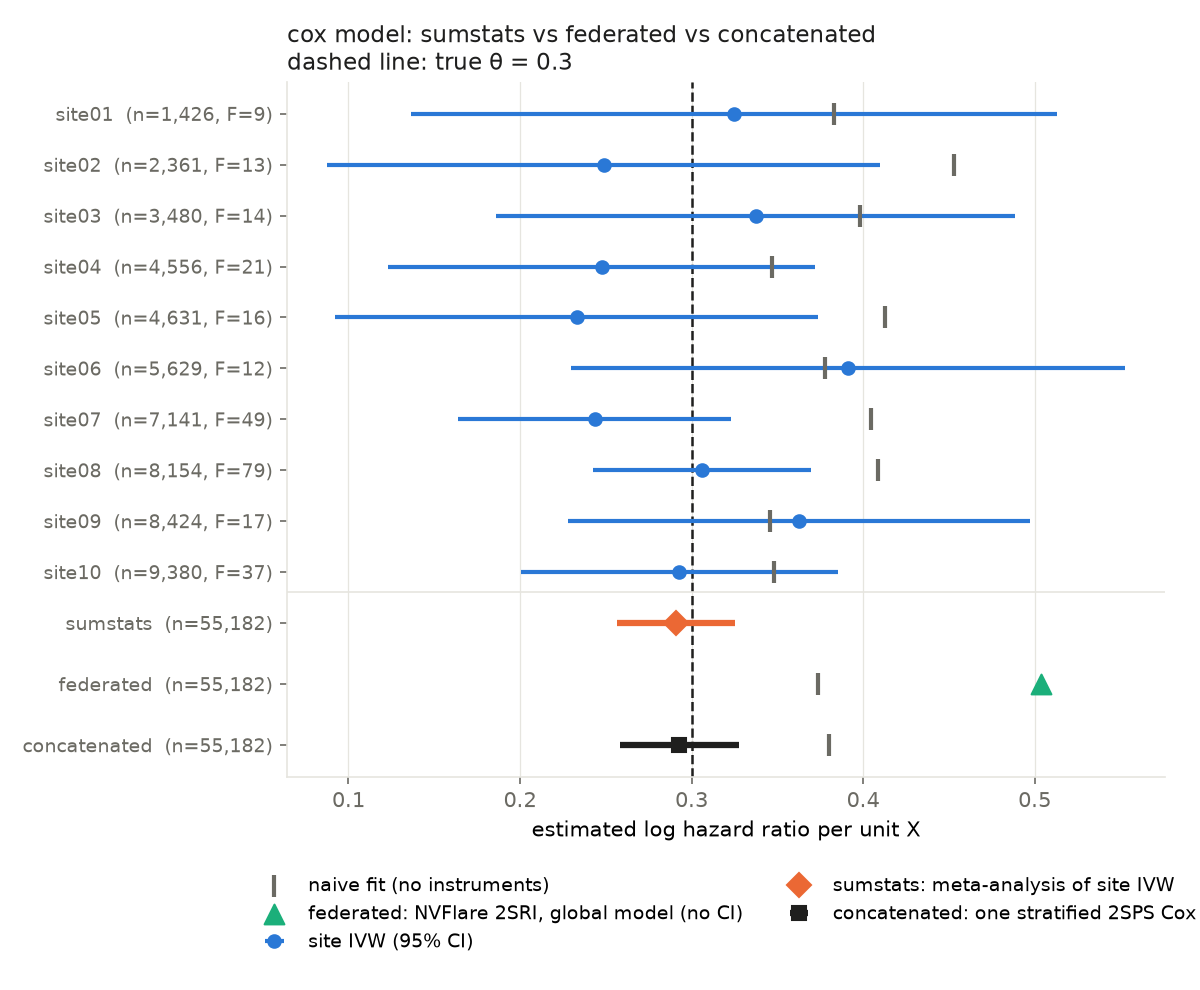
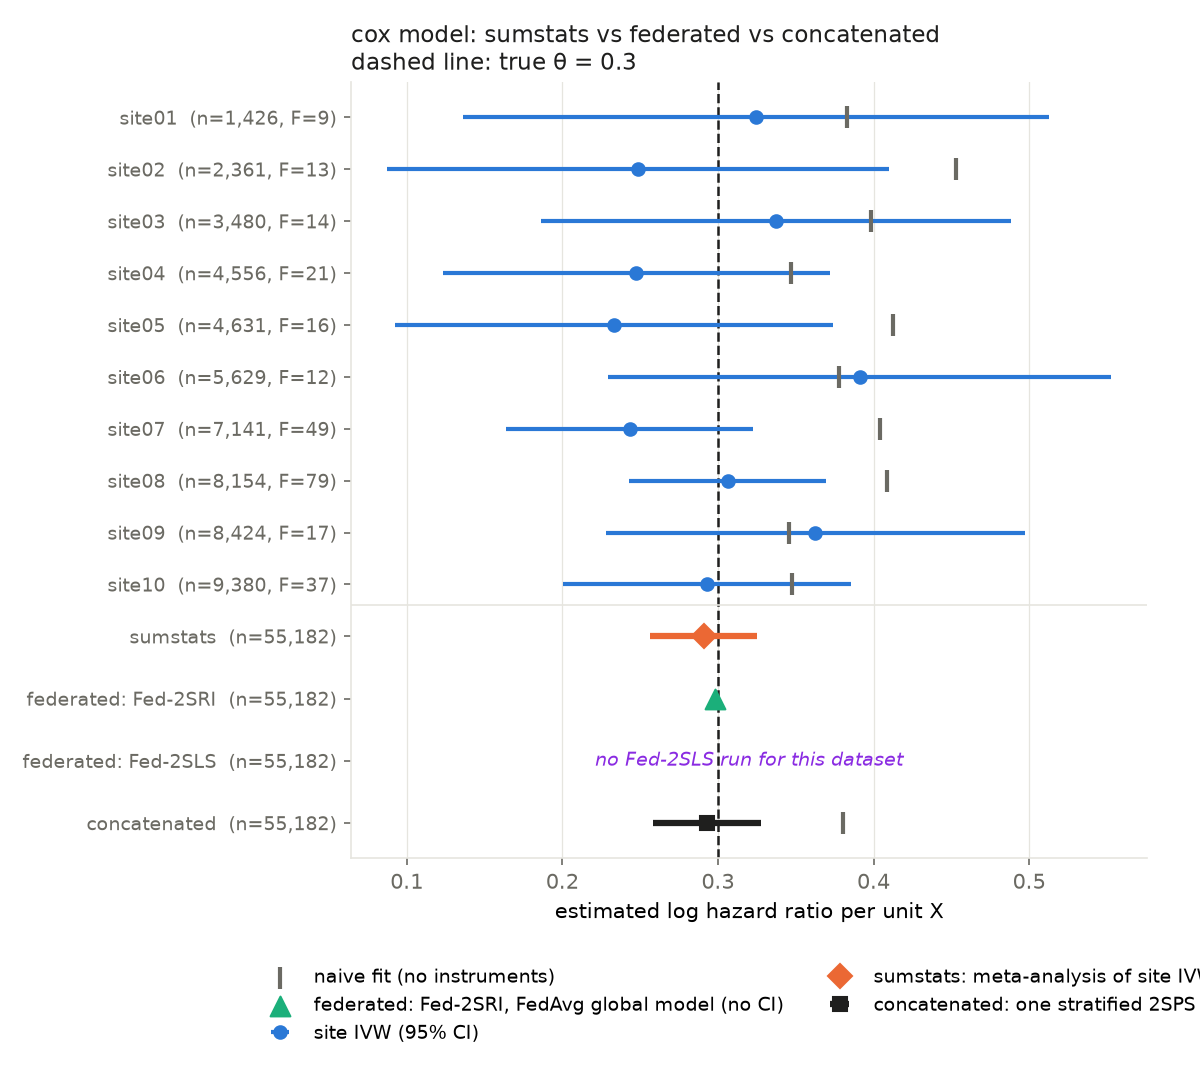
Rename the FedAvg 2SRI model to Fed-2SRI; dashboard runs Fed-2SRI and Fed-2SLS only
The FedAvg-trained federated 2SRI network is labelled Fed-2SRI on the
forest, dose-response and fitted-curve plots, in the dashboard and in the
docs; the 2SPS sibling becomes Fed-2SPS on the job.py plots. The dashboard
drops federated naive and Fed-2SPS: its federated step offers and runs
2sri and fed2sls, and the forest no longer draws the federated naive tick.
The curved forest tolerates a linear-basis Fed-2SLS run (it reports theta1
alone and prefers the checked-in quadratic analysis when there is one)
instead of crashing on a missing theta2. Plots regenerated.

Claude-Session: https://claude.ai/code/session_015NyuikE1DxS4koegP9jiqJ

diff --git a/data/scripts/federated_summary_mr.py b/data/scripts/federated_summary_mr.py
@@ -190,9 +190,7 @@ def forest(res, meta, meta_se, pooled, pooled_se, pooled_naive, fl, target, targ
                 ecolor=SUMSTATS_COLOR, elinewidth=3, label="sumstats: meta-analysis of site IVW")
     if "2sri" in fl:
         ax.scatter([fl["2sri"][0]], [rows_y["federated"]], marker="^", s=90, color=FED_COLOR, zorder=4,
-                   label="federated: NVFlare 2SRI, global model (no CI)")
-    if "naive" in fl:
-        ax.scatter([fl["naive"][0]], [rows_y["federated"]], marker="|", s=120, color=MUTED, linewidths=2, zorder=3)
+                   label="federated: Fed-2SRI, FedAvg global model (no CI)")
     if fed2sls is not None:
         ax.errorbar([fed2sls[0]], [rows_y["fed2sls"]], xerr=[1.96 * fed2sls[1]], fmt="v", color=FED2SLS_COLOR, ms=8,
                     ecolor=FED2SLS_COLOR, elinewidth=3, label="federated: Fed-2SLS, exact pooled 2SLS (95% CI)")
@@ -205,10 +203,10 @@ def forest(res, meta, meta_se, pooled, pooled_se, pooled_naive, fl, target, targ
     ax.scatter([pooled_naive], [rows_y["pooled"]], marker="|", s=120, color=MUTED, linewidths=2, zorder=3)
     ax.axhline(-0.4, color=GRID, linewidth=0.8)
     if "2sri" not in fl:
-        ax.text(0.5, rows_y["federated"], "no NVFlare 2SRI run for this dataset", transform=ax.get_yaxis_transform(),
+        ax.text(0.5, rows_y["federated"], "no Fed-2SRI run for this dataset", transform=ax.get_yaxis_transform(),
                 ha="center", va="center", fontsize=9, color=FED_COLOR, style="italic")
     _family_rows(ax, y, rows_y, res, res["n"].sum(),
-                 {"sumstats": "sumstats", "federated": "federated: FedAvg", "fed2sls": "federated: Fed-2SLS",
+                 {"sumstats": "sumstats", "federated": "federated: Fed-2SRI", "fed2sls": "federated: Fed-2SLS",
                   "pooled": "concatenated"})
     ax.set_xlabel("estimated log hazard ratio per unit X" if shape == "cox" else "estimated causal effect of X on Y")
     ax.set_title(f"{shape} model: sumstats vs federated vs concatenated\ndashed line: {target_label}",
@@ -230,18 +228,23 @@ def fed2sls_row(dataset: str, curved: bool,
     results/fed2sls.<dataset>.csv (scripts/federated_exact_mr.py) is the fallback; any other
     root belongs to a different dataset, so that file is not consulted."""
     run = root / "fed2sls" / dataset / "metrics.csv"
+    from_run = None
     if run.exists():
         r = pl.read_csv(run).row(-1, named=True)
-        return (r["theta_X"], r["se_X"], r.get("theta_X2"), r.get("se_X2"))
+        from_run = (r["theta_X"], r["se_X"], r.get("theta_X2"), r.get("se_X2"))
+        if not curved or from_run[2] is not None:
+            return from_run
+        # a linear-basis run on a curved shape: prefer the checked-in quadratic analysis below,
+        # otherwise report theta1 alone
     if root != FL_RESULTS:
-        return None
+        return from_run
     path = Path("results") / f"fed2sls.{dataset}.csv"
     if not path.exists():
         return None
     df = pl.read_csv(path)
     r = df.filter(pl.col("estimator") == "Fed-2SLS quadratic" if curved else pl.col("estimator").str.starts_with("Fed-2SLS ("))
     if r.height == 0:
-        return None
+        return from_run
     r = r.row(0, named=True)
     return r["theta1"], r["se1"], r["theta2"], r["se2"]
 
@@ -259,9 +262,9 @@ def fl_curve(method: str, dataset: str, root: Path = FL_RESULTS) -> tuple[np.nda
 
 def fl_params(dataset: str, curved: bool, x_max: float = 2.0, root: Path = FL_RESULTS) -> dict[str, tuple[float, ...]]:
     """Summarise the federated curves into the forest's parameters by least squares on |x| <= x_max.
-    Returns {"2sri": (theta1, theta2) or (slope,), "naive": ...} for the runs that exist."""
+    Returns {"2sri": (theta1, theta2) or (slope,)} when that run exists."""
     out = {}
-    for method in ("2sri", "naive"):
+    for method in ("2sri",):
         c = fl_curve(method, dataset, root)
         if c is None:
             continue
@@ -310,19 +313,17 @@ def forest_curved(res, meta, meta_se, model_meta, model_cov, pooled_q, pooled_co
                  label="model sumstats: meta of site (θ1, θ2)")
     if "2sri" in fl:
         ax1.scatter([fl["2sri"][0]], [rows_y["federated"]], marker="^", s=90, color=FED_COLOR, zorder=4,
-                    label="federated: NVFlare 2SRI, global model (no CI)")
+                    label="federated: Fed-2SRI, FedAvg global model (no CI)")
         ax2.scatter([fl["2sri"][1]], [rows_y["federated"]], marker="^", s=90, color=FED_COLOR, zorder=4)
     else:
-        ax1.text(0.5, rows_y["federated"], "no NVFlare 2SRI run for this dataset", transform=ax1.get_yaxis_transform(),
+        ax1.text(0.5, rows_y["federated"], "no Fed-2SRI run for this dataset", transform=ax1.get_yaxis_transform(),
                  ha="center", va="center", fontsize=9, color=FED_COLOR, style="italic")
-    if "naive" in fl:
-        ax1.scatter([fl["naive"][0]], [rows_y["federated"]], marker="|", s=120, color=MUTED, linewidths=2, zorder=3)
-        ax2.scatter([fl["naive"][1]], [rows_y["federated"]], marker="|", s=120, color=MUTED, linewidths=2, zorder=3)
     if fed2sls is not None:
         ax1.errorbar([fed2sls[0]], [rows_y["fed2sls"]], xerr=[1.96 * fed2sls[1]], fmt="v", color=FED2SLS_COLOR, ms=8,
                      ecolor=FED2SLS_COLOR, elinewidth=3, label="federated: Fed-2SLS, exact pooled 2SLS (95% CI)")
-        ax2.errorbar([fed2sls[2]], [rows_y["fed2sls"]], xerr=[1.96 * fed2sls[3]], fmt="v", color=FED2SLS_COLOR, ms=8,
-                     ecolor=FED2SLS_COLOR, elinewidth=3)
+        if fed2sls[2] is not None:     # a linear-basis run has no theta2
+            ax2.errorbar([fed2sls[2]], [rows_y["fed2sls"]], xerr=[1.96 * fed2sls[3]], fmt="v", color=FED2SLS_COLOR,
+                         ms=8, ecolor=FED2SLS_COLOR, elinewidth=3)
     else:
         ax1.text(0.5, rows_y["fed2sls"], "no Fed-2SLS run for this dataset", transform=ax1.get_yaxis_transform(),
                  ha="center", va="center", fontsize=9, color=FED2SLS_COLOR, style="italic")
@@ -355,7 +356,7 @@ def forest_curved(res, meta, meta_se, model_meta, model_cov, pooled_q, pooled_co
         ax.axhline(-0.4, color=GRID, linewidth=0.8)
         _style(ax)
     _family_rows(ax1, y, rows_y, res, n_all, {"sumstats": "sumstats: per-SNP", "models": "sumstats: site models",
-                                              "federated": "federated: FedAvg", "fed2sls": "federated: Fed-2SLS",
+                                              "federated": "federated: Fed-2SRI", "fed2sls": "federated: Fed-2SLS",
                                               "pooled": "concatenated"})
     fig.suptitle(f"{shape} model: sumstats vs federated vs concatenated, two parameters of the causal curve",
                  x=0.01, ha="left", fontsize=11, color=INK)

diff --git a/dashboard/runner.py b/dashboard/runner.py
@@ -41,7 +41,7 @@ DATA_PYTHON = os.environ.get("FLAMINGO_DATA_PYTHON", sys.executable)
 # The repository is one environment, so every step runs in this interpreter.
 # Both overrides remain for pointing a step at a separate environment.
 FL_PYTHON = os.environ.get("FLAMINGO_FL_PYTHON", sys.executable)
-FL_METHODS = ("naive", "2sri", "2sps", "fed2sls")
+FL_METHODS = ("2sri", "fed2sls")
 
 SHAPES = ("linear", "quadratic", "threshold", "cox")
 CURVED_SHAPES = ("quadratic", "threshold")  # the shapes with a theta2 to recover
@@ -50,7 +50,7 @@ CURVED_SHAPES = ("quadratic", "threshold")  # the shapes with a theta2 to recove
 # so they deliberately stay out of the run id.
 EXPERIMENT_DEFAULTS: dict = {
     "run_federated": True,
-    "fl_methods": ["naive", "2sri", "fed2sls"],
+    "fl_methods": ["2sri", "fed2sls"],
     "fl_engine": "local",
     "fl_rounds": 5,
     "fl_epochs": 2,
@@ -203,9 +203,7 @@ def _federated_argv(p: dict, paths: RunPaths) -> list:
 # One name per federated method, used for the output headings and the estimator table.
 # Each says whether it is MR, which MR design, and how it is federated.
 METHOD_LABELS = {
-    "naive": "Federated naive · FedAvg, no instruments (not MR)",
-    "2sri": "Federated MR · 2SRI (control function), FedAvg",
-    "2sps": "Federated MR · 2SPS (predicted exposure), FedAvg",
+    "2sri": "Federated MR · Fed-2SRI (control function, FedAvg-trained)",
     "fed2sls": "Federated MR · Fed-2SLS (exact 2SLS from summed statistics)",
 }
 
@@ -249,7 +247,7 @@ PIPELINE: tuple[Step, ...] = (
     # estimator on the same forest and dose-response plots.
     Step(
         key="federated",
-        label="Federated learning (FedAvg: naive, MR 2SRI / 2SPS; Fed-2SLS exact 2SLS)",
+        label="Federated learning (Fed-2SRI via FedAvg; Fed-2SLS exact 2SLS)",
         script=FL_DIR / "job.py",
         python=FL_PYTHON,
         cwd=FL_DIR,
@@ -282,7 +280,6 @@ PIPELINE: tuple[Step, ...] = (
             "--sites", paths.sites_for(p["shape"]),
             "--out", _nonlinear_png(p, paths),
             "--federated", paths.fl,
-            # only the MR fit on the dose-response plot; the naive FedAvg curve stays in the table
             "--federated_methods", *NONLINEAR_FL_CURVES,
         ],
         outputs=lambda p, paths: {"Dose–response curve": _nonlinear_png(p, paths)},

diff --git a/federated_learning/src/plots.py b/federated_learning/src/plots.py
@@ -30,8 +30,8 @@ BLUE, ORANGE, GRAY, INK, MUTED, SURFACE, GRID = (
     "#256abf", "#eb6834", "#b8b8b5", "#1f1f1e", "#6b6b68", "#fcfcfb", "#e6e6e3")
 METHOD_STYLE = {                     # fixed colour per method, never cycled
     "naive": dict(color=BLUE, label="federated naive: f(X)"),
-    "2sri": dict(color="#4a3aa7", label="federated MR 2SRI: f(X) with control function"),
-    "2sps": dict(color="#1baf7a", label="federated MR 2SPS: f(X_hat)"),
+    "2sri": dict(color="#4a3aa7", label="federated Fed-2SRI: f(X) with control function"),
+    "2sps": dict(color="#1baf7a", label="federated Fed-2SPS: f(X_hat)"),
     "fed2sls": dict(color="#8a2be2", label="federated Fed-2SLS: exact pooled 2SLS, 95% band"),
 }
 METHODS = list(METHOD_STYLE)
@@ -238,7 +238,7 @@ def plot_overview(datasets, results_root, fed_dir, out):
             handles.setdefault(l.split(", round")[0].split(" (solid")[0], h)
     fig.legend(handles.values(), handles.keys(), frameon=False, fontsize=8, loc="upper right", ncol=2,
                bbox_to_anchor=(0.99, 0.99))
-    fig.suptitle("Federated X -> outcome curve: naive vs MR (FedAvg and Fed-2SLS)", x=0.01, ha="left",
+    fig.suptitle("Federated X -> outcome curve: naive vs MR (Fed-2SRI, Fed-2SPS, Fed-2SLS)", x=0.01, ha="left",
                  fontsize=12, color=INK, fontweight="bold")
     fig.text(0.01, 0.925, NOTE, fontsize=8, color=MUTED)
     fig.tight_layout(rect=(0, 0, 1, 0.905))

diff --git a/dashboard/app.py b/dashboard/app.py
@@ -424,9 +424,7 @@ with tab_experiments:
         run_params["fl_methods"] = c1.multiselect(
             "Methods", runner.FL_METHODS, default=runner.EXPERIMENT_DEFAULTS["fl_methods"],
             disabled=not run_params["run_federated"],
-            help="naive: outcome on X directly, the confounded association. "
-                 "2sri: site-local first stage, then a federated control function. "
-                 "2sps: site-local first stage, then federated on the predicted X. "
+            help="2sri: site-local first stage, then a federated control-function network trained with FedAvg. "
                  "fed2sls: exact 2SLS from summed sufficient statistics, no training "
                  "(continuous outcomes; skipped for cox).",
         )

diff --git a/data/scripts/federated_nonlinear_mr.py b/data/scripts/federated_nonlinear_mr.py
@@ -38,7 +38,7 @@ from simulate_basic import causal_curve  # noqa: E402
 
 POOLED_COLOR, SUMSTATS_COLOR, FED2SLS_COLOR, INK, MUTED, GRID = "#2a78d6", "#eb6834", "#8a2be2", "#1f1f1e", "#6b6a63", "#e6e5df"
 FL_STYLE = {"naive": ("#1baf7a", "federated learning, naive MLP: E[Y | X], no instruments (confounded)"),
-            "2sri": ("#4a3aa7", "federated MR · 2SRI (FedAvg MLP): f(X), first-stage residual as control function")}
+            "2sri": ("#4a3aa7", "federated Fed-2SRI (FedAvg-trained network): f(X), first-stage residual as control function")}
 
 
 def load_sites(folder: Path) -> list[tuple[np.ndarray, np.ndarray, np.ndarray]]:

diff --git a/data/docs/federated-summary-mr.md b/data/docs/federated-summary-mr.md
@@ -109,7 +109,7 @@ site rows, coloured by family:
 | family | row(s) | what leaves each site | estimate |
 |---|---|---|---|
 | sumstats (orange) | `sumstats` (per-SNP), and `sumstats: site models` for curved shapes | per-SNP GWAS effects; or a fitted model's coefficients and covariance | inverse-variance meta-analysis, with CI |
-| federated: FedAvg (green) | `federated: FedAvg` | model weights each round, via NVFlare FedAvg | the last-round global 2SRI model from `../federated_learning/results/2sri/<dataset>/curves.csv`, summarised into the plot's parameters by least squares on the curve over -2 <= X <= 2; no analytic CI |
+| federated: Fed-2SRI (green) | `federated: Fed-2SRI` | model weights each round, via NVFlare FedAvg | the last-round global 2SRI model from `../federated_learning/results/2sri/<dataset>/curves.csv`, summarised into the plot's parameters by least squares on the curve over -2 <= X <= 2; no analytic CI |
 | federated: Fed-2SLS (violet) | `federated: Fed-2SLS` | centred cross-product matrices, one round (plus one for the robust SE) | exact federated 2SLS from `results/fed2sls.<dataset>.csv` (`scripts/federated_exact_mr.py`), identical to the concatenated row, with CI; see `federated-exact-mr.md` |
 | concatenated (black) | `concatenated` | individual rows | one 2SLS (or stratified 2SPS Cox), with CI |
 
@@ -142,7 +142,7 @@ individual-level 2SLS as the concatenated row, computed from per-site
 cross-product matrices and therefore identical to it, with a confidence
 interval. On every continuous set the two rows coincide to 1e-16
 (`results/fed2sls.<shape>.csv`). Fed-2SLS needs a specified basis, so it does
-not replace the FedAvg curve; the two rows answer different questions.
+not replace the Fed-2SRI curve; the two rows answer different questions.
 
 ## Curved models: two parameters
 

diff --git a/data/docs/federated-exact-mr.md b/data/docs/federated-exact-mr.md
@@ -1,8 +1,8 @@
 # Fed-2SLS: exact federated MR from sufficient statistics
 
 The summary-statistics route (`federated-summary-mr.md`) recovers the
-average slope but not the curve; the NVFlare FedAvg route
-(`../../federated_learning/`) recovers a flexible curve but has no analytic
+average slope but not the curve; the Fed-2SRI route (a FedAvg-trained
+network in `../../federated_learning/`) recovers a flexible curve but has no analytic
 standard error and is an approximation. Fed-2SLS is a third federated route:
 each site releases a few cross-product matrices, the coordinator sums them
 and solves, and the result *is* the pooled two-stage least squares (2SLS)
@@ -133,7 +133,7 @@ continuous set the three agree to 1e-16 in the estimate and the robust SE
 (`../../federated_learning/results/fed2sls/<dataset>/metrics.csv`). The
 quadratic basis runs the same way (`--fed2sls_basis quadratic`), and the
 result is drawn with its analytic band on the same fitted-curve plots as
-the FedAvg methods.
+the Fed-2SRI and Fed-2SPS methods.
 
 ## What is, and is not, protected
 

diff --git a/federated_learning/README.md b/federated_learning/README.md
@@ -97,9 +97,9 @@ uv run python job.py --all --method fed2sls --engine local                # same
 files and, for site-specific SNPs, the pooled fit in numpy, and fails
 unless all three agree to 1e-10; the observed gaps are recorded in
 `results/fed2sls/<dataset>/metrics.csv` and sit at 1e-16 on every set. The
-`fed2sls` row lands on the same fitted-curve and overview plots as the FedAvg
+`fed2sls` row lands on the same fitted-curve and overview plots as the Fed-2SRI and Fed-2SPS
 methods, drawn with its analytic 95% band, and in `results/summary.csv` as
-`theta_X`, `se_X`, `robust_se_X` and `first_stage_F`. The FedAvg 2SRI model
+`theta_X`, `se_X`, `robust_se_X` and `first_stage_F`. The Fed-2SRI model
 above and Fed-2SLS answer different questions (a flexible curve without an
 analytic CI versus a specified basis with one), and the forest plots in
 `../data/results/` keep both rows. See `../data/docs/federated-exact-mr.md`.

diff --git a/dashboard/README.md b/dashboard/README.md
@@ -24,7 +24,7 @@ the federated workflow over it, runs the chain and compares every estimator:
 | step | script | runs for |
 |---|---|---|
 | Simulate sites | `simulate_federated_sites.py` | all shapes |
-| Federated learning (FedAvg naive/2SRI/2SPS, and Fed-2SLS exact 2SLS) | `federated_learning/job.py` | when enabled; Fed-2SLS on continuous shapes |
+| Federated learning (Fed-2SRI via FedAvg; Fed-2SLS exact 2SLS) | `federated_learning/job.py` | when enabled; Fed-2SLS on continuous shapes |
 | Conventional MR | `federated_summary_mr.py` | all shapes |
 | Non-linear MR | `federated_nonlinear_mr.py` | `quadratic`, `threshold` |
 

diff --git a/data/docs/federated-nonlinear-mr.md b/data/docs/federated-nonlinear-mr.md
@@ -59,8 +59,8 @@ would locate the cutoff.
 ## Federated learning: naive and as MR
 
 The plots carry two more dashed lines from `../federated_learning/`
-(`job.py --dataset quadratic --method naive --method 2sri`), an NVFlare
-FedAvg MLP trained across the ten sites without pooling individual data.
+(`job.py --dataset quadratic --method naive --method 2sri`), the Fed-2SRI
+network (an MLP trained with FedAvg) across the ten sites without pooling individual data.
 
 **Naive (green).** Fits `E[Y | X]` directly. It recovers the *shape* of the
 association, quadratic curvature and the threshold kink alike, because a

diff --git a/data/docs/fed2sls-plan.md b/data/docs/fed2sls-plan.md
@@ -121,7 +121,7 @@ NVFlare client and the analysis scripts run the same arithmetic.
    `quadratic_2sls`.
 4. **Driver and outputs** (`scripts/federated_exact_mr.py`): done. Four-way
    comparison per set, `results/fed2sls.<shape>.csv`; the forest plots keep
-   the NVFlare 2SRI row (`federated: FedAvg`, flexible curve, no analytic CI)
+   the NVFlare 2SRI row (`federated: Fed-2SRI`, flexible curve, no analytic CI)
    and add `federated: Fed-2SLS` (specified basis, analytic CI); the
    dose-response plot draws the Fed-2SLS quadratic curve over the concatenated
    one.

diff --git a/writing/results.md b/writing/results.md
@@ -23,7 +23,7 @@ and without training.
 
 The three federated routes now on every forest plot answer different
 questions. Per-SNP summary statistics give the average slope with no loss
-of precision but no curvature. The FedAvg 2SRI network gives a flexible
+of precision but no curvature. The Fed-2SRI network (trained with FedAvg) gives a flexible
 curve, including the threshold plateau, but no analytic confidence
 interval and a slope that drifts from the truth. Fed-2SLS gives the pooled
 estimate and interval for a specified basis, in one or two rounds.
